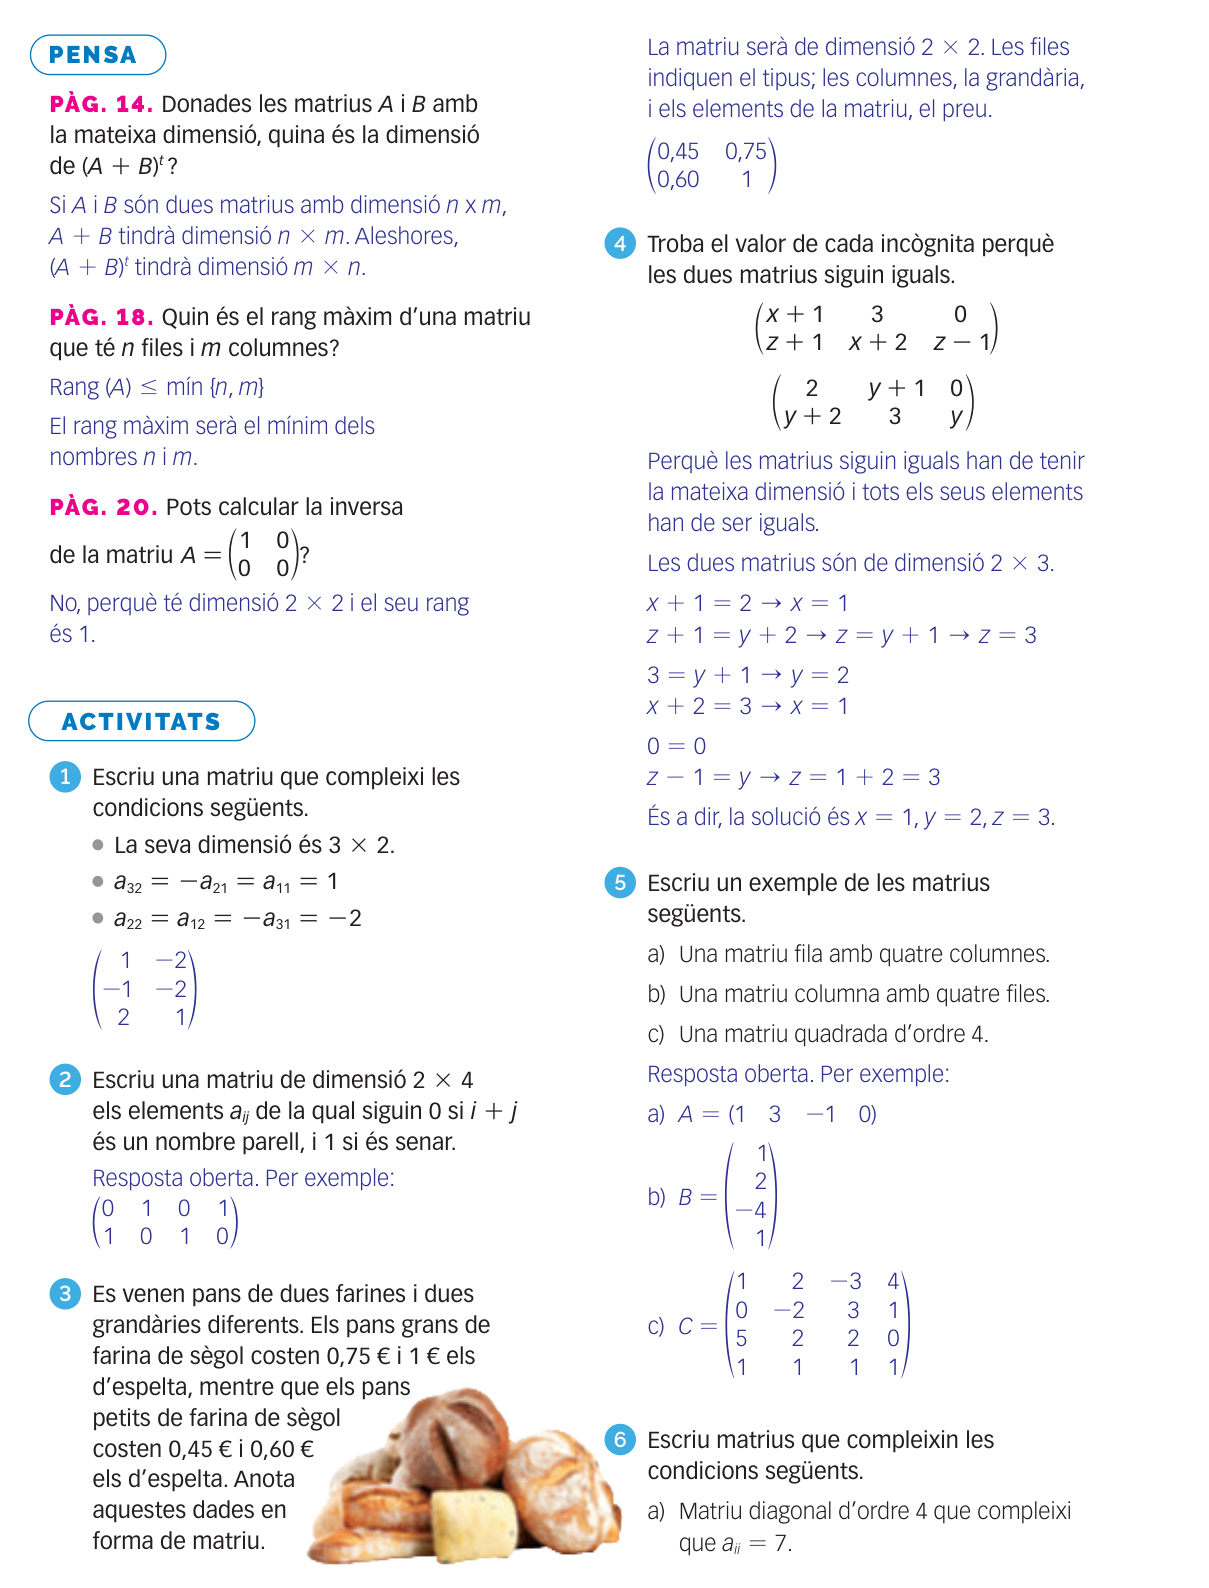
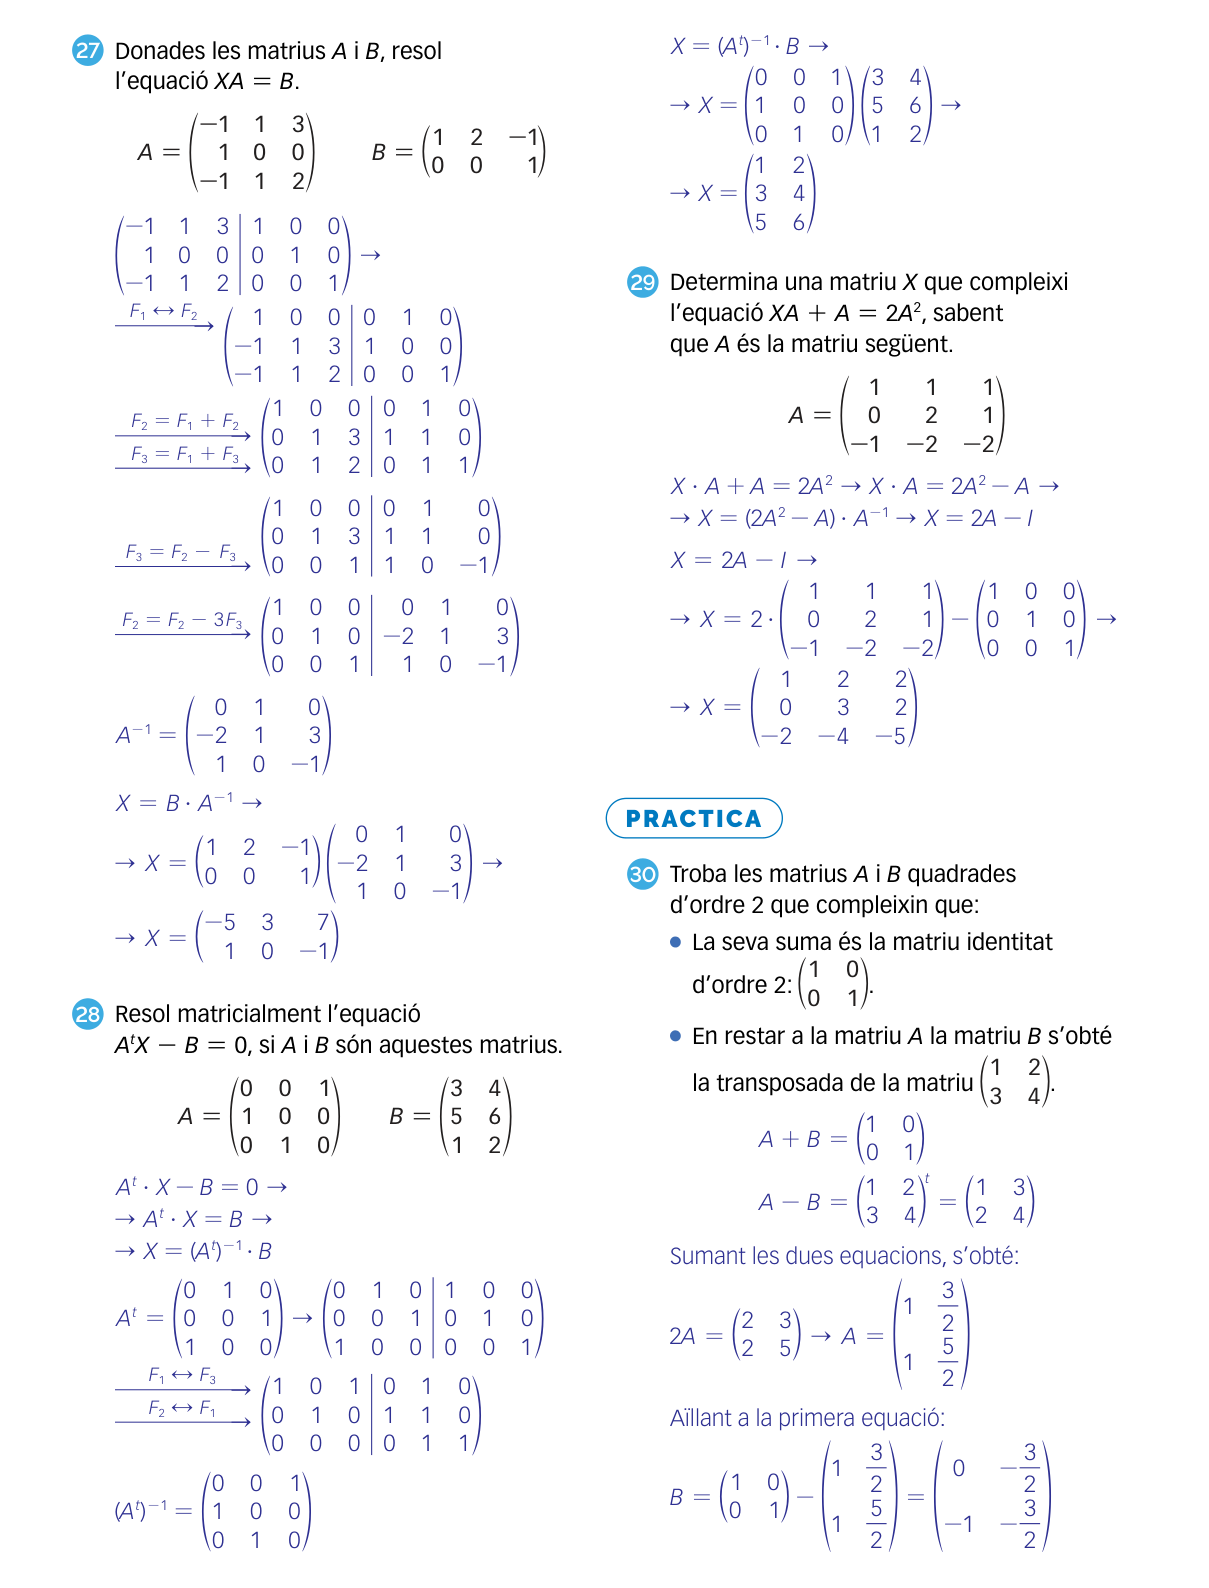
U1 Matrius: catàleg complet i unitat a index.html
- cataleg.js: 111 fitxes (exercicis 30-135 i activitats 1-5 del món real),
  amb títol, dificultat llegida del PDF i imatges de cada exercici
- index.html: unitat 1 amb els seus 7 temes
- publicats.js: temes de la u1 a 'cap', com la resta
- u1/practica: només pàgines 9-11 (secció PRACTICA, exercicis 30-38),
  igual que a la u7; les activitats del text (1-29) no s'hi inclouen

La unitat no apareix als alumnes fins que tingui tasques a tasques.js.

Claude-Session: https://claude.ai/code/session_01CQ9J3gwB12H7WQnK7WZRZz

diff --git a/cataleg.js b/cataleg.js
@@ -16,6 +16,7 @@
    ═══════════════════════════════════════════════════════════════════════ */
 
 const UNITATS_META = {
+  'u1': {nom:'Unitat 1', subtitol:'Matrius'},
   'u7': {nom:'Unitat 7', subtitol:'Límits i continuïtat'},
   'u8': {nom:'Unitat 8', subtitol:'Derivades'},
   'u9': {nom:'Unitat 9', subtitol:'Aplicacions de les derivades'},
@@ -27,6 +28,120 @@ const UNITATS_META = {
 };
 
 const CATALEG = {
+
+  'u1': {
+      1: {t:'Quantes arestes calen si la carretera entre dos punts té quatre revolts?', d:'', i:['mon-real/data/full-1.png'], a:1},
+      2: {t:'Classifica les matrius del text segons la forma i la posició dels elements', d:'', i:['mon-real/data/full-1.png'], a:1},
+      3: {t:'Nombre màxim d’arestes d’un camí simple en un graf de 5 vèrtexs', d:'', i:['mon-real/data/full-1.png'], a:1},
+      4: {t:'Dibuixa un graf que tingui com a matriu d’adjacència les matrius donades', d:'', i:['mon-real/data/full-1.png','mon-real/data/full-2.png'], a:1},
+      5: {t:'Camins de longitud 3 entre els vèrtexs 2 i 4 d’un graf', d:'', i:['mon-real/data/full-2.png'], a:1},
+     30: {t:'Troba A i B d’ordre 2 amb A + B = I i A − B igual a una transposada donada', d:'', i:['practica/data/full-1.png']},
+     31: {t:'Calcula a i b tals que A³ = aA + bI', d:'', i:['practica/data/full-2.png']},
+     32: {t:'Donada una matriu triangular d’ordre 3, calcula A¹⁰¹', d:'', i:['practica/data/full-2.png']},
+     33: {t:'Si M² = M, comprova que P = I − M compleix PM = MP = 0', d:'', i:['practica/data/full-2.png']},
+     34: {t:'Preus de quatre articles a tres fàbriques: interpreta el producte RP', d:'', i:['practica/data/full-2.png']},
+     35: {t:'Troba les matrius A = (x 1; y 0) tals que AAᵗ és una matriu donada', d:'', i:['practica/data/full-2.png']},
+     36: {t:'Rang d’una matriu 3×4 en funció del paràmetre a', d:'', i:['practica/data/full-2.png','practica/data/full-3.png']},
+     37: {t:'Per a quins valors de k és invertible la matriu M?', d:'', i:['practica/data/full-3.png']},
+     38: {t:'Resol el sistema 2X + Y = A², X − Y = A⁻¹', d:'', i:['practica/data/full-3.png']},
+     39: {t:'Classifica sis matrius i determina’n la dimensió', d:'●○○', i:['operacions/data/full-1.png']},
+     40: {t:'Valors de x i y perquè dues matrius siguin iguals', d:'●○○', i:['operacions/data/full-1.png']},
+     41: {t:'Dimensió de AC, AᵗBᵗ i (Cᵗ + D)Aᵗ a partir de les dimensions de cada matriu', d:'●○○', i:['operacions/data/full-1.png']},
+     42: {t:'INVENTA. Dos exemples de matriu fila, diagonal, quadrada i triangular inferior', d:'●○○', i:['operacions/data/full-1.png','operacions/data/full-2.png']},
+     43: {t:'Calcula A + B − C, −A + B + C i A − (B − C)', d:'●○○', i:['operacions/data/full-2.png']},
+     44: {t:'Dimensió de AᵗB, ACᵗ i BᵗA − C amb matrius m×n, m×p i p×n', d:'●○○', i:['operacions/data/full-2.png']},
+     45: {t:'INVESTIGA. Quina dimensió ha de tenir B perquè BA o AB sigui una matriu fila?', d:'●●○', i:['operacions/data/full-2.png']},
+     46: {t:'INVENTA. Dues matrius el producte de les quals sigui de dimensió 4×2', d:'●○○', i:['operacions/data/full-2.png']},
+     47: {t:'Comprova que (Aᵗ)ᵗ = A per a qualsevol matriu d’ordre 3', d:'●○○', i:['operacions/data/full-2.png']},
+     48: {t:'Una matriu amb aᵢⱼ = i − j és antisimètrica: comprova-ho i escriu-ne una', d:'●○○', i:['operacions/data/full-2.png']},
+     49: {t:'Fes, si és possible, els productes AB, BA, AC i BC', d:'●●○', i:['operacions/data/full-2.png','operacions/data/full-3.png']},
+     50: {t:'Calcula, si és possible, ABC, BᵗA − C i AᵗCᵗ', d:'●●○', i:['operacions/data/full-3.png']},
+     51: {t:'MATEMÀTIQUES I… APPS. Desplaça i gira un canó amb operacions de matrius', d:'●●○', i:['operacions/data/full-3.png']},
+     52: {t:'Comprova si dues matrius 2×2 commuten respecte del producte', d:'●○○', i:['operacions/data/full-4.png']},
+     53: {t:'INVESTIGA. Expressió general de les matrius que commuten amb A = (1 1; 0 1)', d:'●●○', i:['operacions/data/full-4.png']},
+     54: {t:'Matrius de gir: prova que commuten i calcula AⁿB', d:'●●○', i:['operacions/data/full-4.png']},
+     55: {t:'Demostra que les matrius de la forma (a b; −b a) sempre commuten', d:'●●○', i:['operacions/data/full-4.png']},
+     56: {t:'REPTE. El producte de matrius (a −b; b a) amb a² + b² = 1 és del mateix conjunt', d:'●●●', i:['operacions/data/full-4.png']},
+     57: {t:'Valor de t perquè es compleixi una igualtat matricial', d:'●○○', i:['operacions/data/full-4.png']},
+     58: {t:'Valor de x perquè es compleixi una igualtat amb un producte de matrius', d:'●●●', i:['operacions/data/full-4.png']},
+     59: {t:'Troba λ ≠ 0 i les matrius B no nul·les amb B·(λ 0; 3 1) = B·(3 0; 9 3)', d:'●●○', i:['operacions/data/full-5.png']},
+     60: {t:'Matrius antisimètriques d’ordre 2 que verifiquen A⁴ = 16I', d:'●●○', i:['operacions/data/full-5.png']},
+     61: {t:'REPTE. Si A és diagonal, A i B commuten sempre? Com ha de ser A?', d:'●●●', i:['operacions/data/full-5.png']},
+     62: {t:'Donada A, troba les matrius B tals que AB = BAᵗ', d:'●●○', i:['operacions/data/full-5.png']},
+     63: {t:'Matrius M = (a b; b a) que compleixen M² − 2M = 3I', d:'●●○', i:['operacions/data/full-5.png']},
+     64: {t:'MATEMÀTIQUES I… VIDEOJOCS. Quaternions: quadrats de A, B i C i producte ABC', d:'●●○', i:['operacions/data/full-5.png','operacions/data/full-6.png']},
+     65: {t:'Valor d’a perquè es compleixi A² + 2A + I = 0', d:'●●○', i:['operacions/data/full-6.png']},
+     66: {t:'Comprova la propietat (AB)ᵗ = BᵗAᵗ amb dues matrius donades', d:'●●○', i:['operacions/data/full-6.png']},
+     67: {t:'Valors de m i n tals que (I + A)³ = mI + nA', d:'●●○', i:['operacions/data/full-6.png']},
+     68: {t:'Valors de α i β tals que A² + αA + βI = 0', d:'●●○', i:['operacions/data/full-6.png']},
+     69: {t:'El producte de dues matrius 3×3 donades, compleix la propietat commutativa?', d:'●○○', i:['operacions/data/full-7.png']},
+     70: {t:'Què han de complir A i B perquè (A + B)² = A² + B² + 2AB?', d:'●●○', i:['operacions/data/full-7.png']},
+     71: {t:'Matrius antisimètriques A d’ordre 3 tals que A² = B', d:'●●●', i:['operacions/data/full-7.png']},
+     72: {t:'Matrius que commuten amb una matriu 3×3 donada, amb condicions a la diagonal', d:'●●●', i:['operacions/data/full-7.png','operacions/data/full-8.png']},
+     73: {t:'INVESTIGA. Matrius X d’una forma donada que verifiquen X² = I', d:'●●○', i:['operacions/data/full-8.png']},
+     74: {t:'Calcula A⁴¹ per a A = (1 0; 2 1)', d:'●●○', i:['operacions/data/full-8.png']},
+     75: {t:'INVESTIGA. Calcula la suma Tₙ = I + A + A² + … + Aⁿ', d:'●●●', i:['operacions/data/full-8.png']},
+     76: {t:'Si A² = 2A − I, expressió general de la potència Aⁿ', d:'●●○', i:['operacions/data/full-8.png']},
+     77: {t:'Demostra que A i B commuten i calcula Aⁿ i Bⁿ', d:'●●○', i:['operacions/data/full-8.png','operacions/data/full-9.png']},
+     78: {t:'Matrius que commuten amb A = (1 0; 1 1) i potència n-èsima de A', d:'●●○', i:['operacions/data/full-9.png']},
+     79: {t:'INVESTIGA. Potència n-èsima d’una matriu 3×3 de zeros i uns', d:'●●○', i:['operacions/data/full-9.png']},
+     80: {t:'Matrius que commuten amb A = (1 3; 0 2), i càlcul de A⁴ i Aⁿ', d:'●●●', i:['operacions/data/full-9.png']},
+     81: {t:'Aⁿ de A = (1 a; 0 1) i càlcul de A²² − 12A² + 2A', d:'●●○', i:['operacions/data/full-9.png','operacions/data/full-10.png']},
+     82: {t:'INVESTIGA. Constants m i n amb A² = mA + nI, i càlcul de A⁵ sense A³ ni A⁴', d:'●●○', i:['operacions/data/full-10.png']},
+     83: {t:'Matrius idempotents: un exemple, el valor de m i les matrius (1 m; n 0)', d:'●●○', i:['operacions/data/full-10.png']},
+     84: {t:'Traça d’una matriu: demostra que Tr(AB) = Tr(BA) i aplica-ho', d:'●●●', i:['operacions/data/full-10.png','operacions/data/full-11.png']},
+     85: {t:'Matrius nilpotents: A és de grau 3 i troba les B = (0 a; b 0) de grau 2', d:'●●○', i:['operacions/data/full-11.png']},
+     86: {t:'Calcula el rang de quatre matrius 2×2', d:'●○○', i:['rang/data/full-1.png']},
+     87: {t:'Calcula el rang de quatre matrius de 2×2 a 4×4', d:'●○○', i:['rang/data/full-1.png']},
+     88: {t:'INVENTA. Escriu matrius amb una dimensió i un rang donats', d:'●○○', i:['rang/data/full-2.png']},
+     89: {t:'Calcula el rang d’una matriu 4×4 pel mètode de Gauss', d:'●○○', i:['rang/data/full-2.png']},
+     90: {t:'Valor d’a sabent que el rang d’una matriu 3×3 és 2', d:'●●○', i:['rang/data/full-2.png']},
+     91: {t:'Rang d’una matriu 3×3 segons els valors del paràmetre m', d:'●●○', i:['rang/data/full-2.png']},
+     92: {t:'Discuteix el rang d’una matriu 3×3 en funció del paràmetre a', d:'●●○', i:['rang/data/full-2.png']},
+     93: {t:'Rang d’una matriu 3×4 en funció del paràmetre m', d:'●●○', i:['rang/data/full-2.png','rang/data/full-3.png']},
+     94: {t:'INVESTIGA. Rang de la potència Aⁿ: depèn de n?', d:'●●○', i:['rang/data/full-3.png']},
+     95: {t:'Rang d’una matriu 3×4 segons els valors del paràmetre real a', d:'●●○', i:['rang/data/full-3.png']},
+     96: {t:'Relaciona cada matriu amb la seva inversa', d:'●○○', i:['inversa/data/full-1.png']},
+     97: {t:'Calcula la inversa de quatre matrius 2×2 i 3×3', d:'●○○', i:['inversa/data/full-1.png','inversa/data/full-2.png']},
+     98: {t:'INVENTA. Matrius invertibles de rang 2 i 3, i matrius no invertibles', d:'●○○', i:['inversa/data/full-2.png']},
+     99: {t:'INVESTIGA. Calcula A⁻¹, B⁻¹ i (AB)⁻¹ i comprova que (AB)⁻¹ = B⁻¹A⁻¹', d:'●●○', i:['inversa/data/full-2.png','inversa/data/full-3.png']},
+    100: {t:'Calcula A⁻¹ i (Aᵗ)⁻¹ i comprova que (A⁻¹)ᵗ = (Aᵗ)⁻¹', d:'●○○', i:['inversa/data/full-3.png']},
+    101: {t:'INVESTIGA. Calcula (A⁻¹)⁻¹ i B⁻¹B: val per a qualsevol matriu?', d:'●○○', i:['inversa/data/full-3.png']},
+    102: {t:'Matrius semblants: existeix M invertible amb B = M⁻¹AM?', d:'●●○', i:['inversa/data/full-4.png']},
+    103: {t:'Si A² − 3I = 2A, calcula A⁻¹ i troba les matrius (x y; y x) que ho compleixen', d:'●●○', i:['inversa/data/full-4.png']},
+    104: {t:'Troba B coneixent la inversa de A i la inversa de AB', d:'●●○', i:['inversa/data/full-4.png']},
+    105: {t:'INVESTIGA. Inversa genèrica d’una matriu 2×2 i condició per ser invertible', d:'●●●', i:['inversa/data/full-4.png','inversa/data/full-5.png']},
+    106: {t:'Calcula A⁻¹ i Aⁿ d’una matriu 3×3 amb tres elements iguals a 1/5', d:'●●○', i:['inversa/data/full-5.png']},
+    107: {t:'Si A² + 7A = I, expressa A⁻¹ en funció de A', d:'●○○', i:['inversa/data/full-5.png']},
+    108: {t:'MATEMÀTIQUES I… CRIPTOGRAFIA. Xifratge de Hill: codifica i descodifica un missatge', d:'●●○', i:['inversa/data/full-5.png','inversa/data/full-6.png']},
+    109: {t:'Comprova que A² = 2I, calcula A⁻¹, A¹² i la inversa de A¹²', d:'●●○', i:['inversa/data/full-6.png']},
+    110: {t:'Aïlla la matriu X en sis equacions matricials senzilles', d:'●○○', i:['equacions/data/full-1.png']},
+    111: {t:'Aïlla X en AX + B = C, AᵗX = B i AXA = A² + I', d:'●○○', i:['equacions/data/full-1.png']},
+    112: {t:'Determina, si existeix, la matriu A d’una equació del tipus PAQ = R', d:'●○○', i:['equacions/data/full-1.png']},
+    113: {t:'Troba la matriu X que verifica A − A² = AB − X', d:'●●○', i:['equacions/data/full-1.png']},
+    114: {t:'Calcula la matriu X que verifica AX = B', d:'●○○', i:['equacions/data/full-2.png']},
+    115: {t:'Troba la matriu X que verifica XA² + BA = A²', d:'●●○', i:['equacions/data/full-2.png']},
+    116: {t:'Valors de m perquè AX − Aᵗ = A tingui solució, i resol-la per a m = 0', d:'●●○', i:['equacions/data/full-2.png']},
+    117: {t:'Calcula la matriu X que verifica X + XA = Bᵗ', d:'●○○', i:['equacions/data/full-2.png','equacions/data/full-3.png']},
+    118: {t:'Calcula la inversa de A i resol l’equació AXA = A² + A', d:'●○○', i:['equacions/data/full-3.png']},
+    119: {t:'INVENTA. Dos valors possibles de X i Y que compleixin dues equacions', d:'●●○', i:['equacions/data/full-3.png']},
+    120: {t:'Resol dos sistemes matricials de dues equacions', d:'●●○', i:['equacions/data/full-3.png']},
+    121: {t:'Sistema AX + BY = C, AX = Y: troba X i Y', d:'●●○', i:['equacions/data/full-3.png','equacions/data/full-4.png']},
+    122: {t:'REPTE. Troba A i B a partir de A + B i de A² − AB + BA − B²', d:'●●●', i:['equacions/data/full-4.png']},
+    123: {t:'Valor de μ amb A⁻¹ = A/6, i resolució de AᵗX = B', d:'●●○', i:['equacions/data/full-4.png','equacions/data/full-5.png']},
+    124: {t:'Inversa de A, càlcul de Aⁿ i resolució de X(A⁴ + A² − A) = C', d:'●●○', i:['equacions/data/full-5.png']},
+    125: {t:'Llautó de tres tipus i dos proveïdors: a quin convé comprar?', d:'●○○', i:['problemes/data/full-1.png']},
+    126: {t:'MATEMÀTIQUES I… LOGÍSTICA. Matriu de rutes: M², M³ i camins de C a D', d:'●●○', i:['problemes/data/full-1.png','problemes/data/full-2.png']},
+    127: {t:'MATEMÀTIQUES I… ECONOMIA. Matriu de decisió dels beneficis de tres botigues', d:'●●○', i:['problemes/data/full-2.png']},
+    128: {t:'Despeses d’una família durant tres mesos en forma de matriu', d:'●●○', i:['problemes/data/full-2.png']},
+    129: {t:'Disminucions percentuals dels productes X i Y a tres empreses', d:'●●○', i:['problemes/data/full-2.png','problemes/data/full-3.png']},
+    130: {t:'Calcula B = HᵗP i indica l’element b₁₁', d:'', i:['problemes/data/full-3.png']},
+    131: {t:'Habitacions i preus de tres hotels: matriu d’ingressos d’una nit', d:'', i:['problemes/data/full-3.png']},
+    132: {t:'Calcula C − B i A(C − B)', d:'', i:['problemes/data/full-3.png']},
+    133: {t:'Cargols plans i d’estrella: producció setmanal sense defectes', d:'', i:['problemes/data/full-3.png']},
+    134: {t:'Resol l’equació matricial AᵗX = B', d:'', i:['problemes/data/full-3.png','problemes/data/full-4.png']},
+    135: {t:'Fusta, plàstic i alumini: quantes cadires, balancins i sofàs es fabriquen?', d:'', i:['problemes/data/full-4.png']},
+  },
 
   'u7': {
       1: {t:'La suma d’infinits nombres és sempre infinita? Busca un contraexemple', d:'', i:['series/data/full-1.png'], a:1},

diff --git a/index.html b/index.html
@@ -73,6 +73,52 @@
    publicats.js és  'u7/bolzano'.  Tot es dedueix; no cal repetir rutes. */
 const UNITATS = [
   {
+    id: 'u1',
+    temes: [
+      {
+        id: 'practica',
+        rang: 'exercicis 30–38',
+        etiqueta: 'Practica',   // badge propi; sense num i sense titol
+      },
+      {
+        id: 'operacions',
+        num: 1,
+        titol: 'Fa operacions amb matrius i n\'aplica les propietats',
+        rang: 'exercicis 39–85',
+      },
+      {
+        id: 'rang',
+        num: 2,
+        titol: 'Determina el rang d\'una matriu',
+        rang: 'exercicis 86–95',
+      },
+      {
+        id: 'inversa',
+        num: 3,
+        titol: 'Determina si una matriu té matriu inversa i la calcula',
+        rang: 'exercicis 96–109',
+      },
+      {
+        id: 'equacions',
+        num: 4,
+        titol: 'Resol equacions matricials',
+        rang: 'exercicis 110–124',
+      },
+      {
+        id: 'problemes',
+        num: 5,
+        titol: 'Utilitza el llenguatge matricial per representar dades i resoldre problemes',
+        rang: 'exercicis 125–135',
+      },
+      {
+        id: 'mon-real',
+        num: 6,
+        titol: 'Matemàtiques en el món real · Grafs',
+        rang: 'activitats 1–5',
+      },
+    ],
+  },
+  {
     id: 'u7',
     temes: [
       {

diff --git a/publicats.js b/publicats.js
@@ -1,5 +1,13 @@
 const PUBLICATS = {
 
+  'u1/practica':                   'cap',
+  'u1/operacions':                 'cap',
+  'u1/rang':                       'cap',
+  'u1/inversa':                    'cap',
+  'u1/equacions':                  'cap',
+  'u1/problemes':                  'cap',
+  'u1/mon-real':                   'cap',
+
   'u7/practica':           'cap',
   'u7/limits-funcions':    'cap',
   'u7/limits-punt':        'cap',
